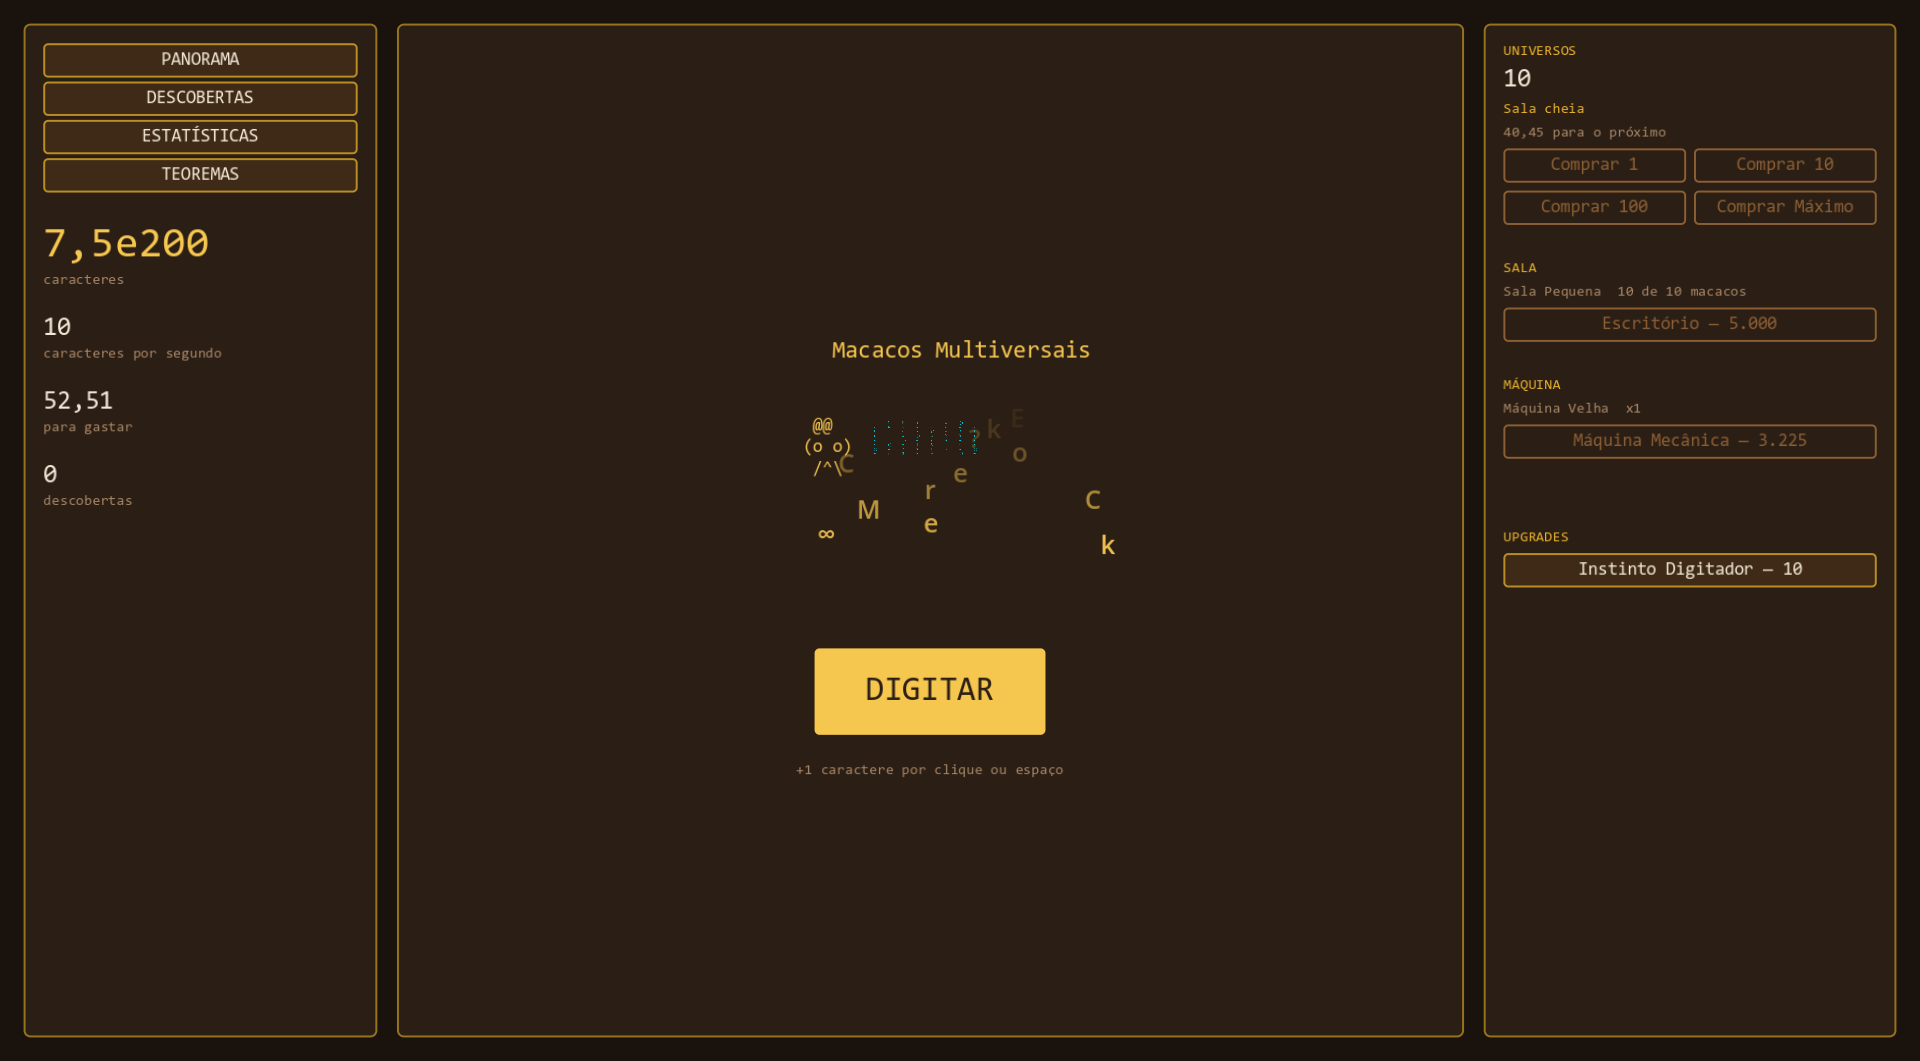
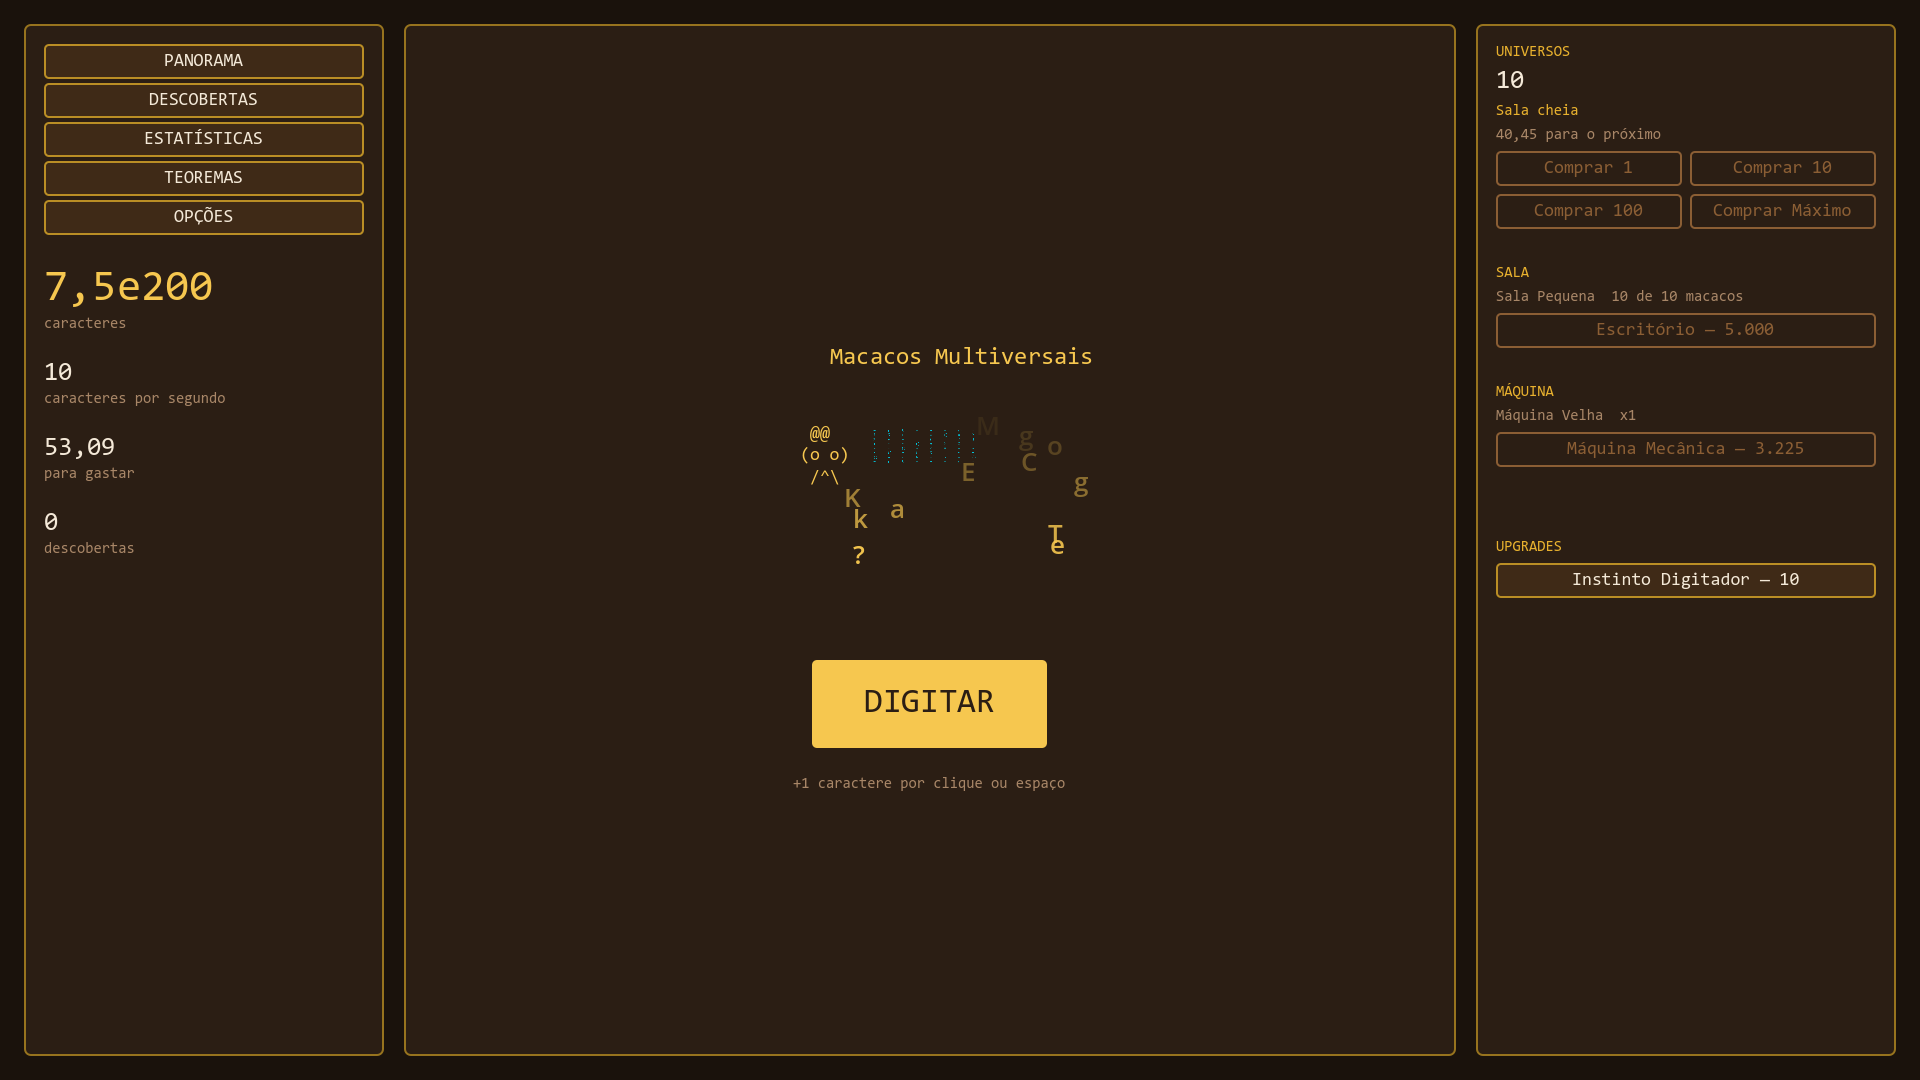
crava o tamanho das capturas nas ferramentas, e nao no --resolution
Efeito colateral da issue #34 que so a galeria mostrou: o Config aplica a
resolucao guardada durante os autoloads, que rodam DEPOIS do
--resolution da linha de comando. As quatorze imagens versionadas sairiam
em 1280x720 pedindo 1920x1080, e o diff acusaria uma mudanca de arte que
nunca houve.

A primeira tentativa de conserto lia get_window().size -- que o Config ja
tinha reduzido. A segunda lia o --resolution de volta em
OS.get_cmdline_args(), e veio vazio. Numero que a ferramenta precisa e
numero que a ferramenta diz: as duas agora tem TAMANHO proprio.

A galeria foi regerada. As quatorze mudaram porque a HUD ganhou o botao
de OPCOES, e nao por causa do tamanho.

diff --git a/CONVENCOES.md b/CONVENCOES.md
@@ -430,7 +430,7 @@ justamente para pegar erro de tuning. Erros dessa família, dos projetos anterio
 
 ```bash
 godot --path . tools/gerar_galeria.tscn                    # galeria versionada
-godot --path . tools/capturar.tscn --resolution 1920x1080  # quadro avulso
+godot --path . tools/capturar.tscn                          # quadro avulso
 ```
 
 A galeria são capturas fixas sobrescritas em `docs/capturas/` e **versionadas**: como as
